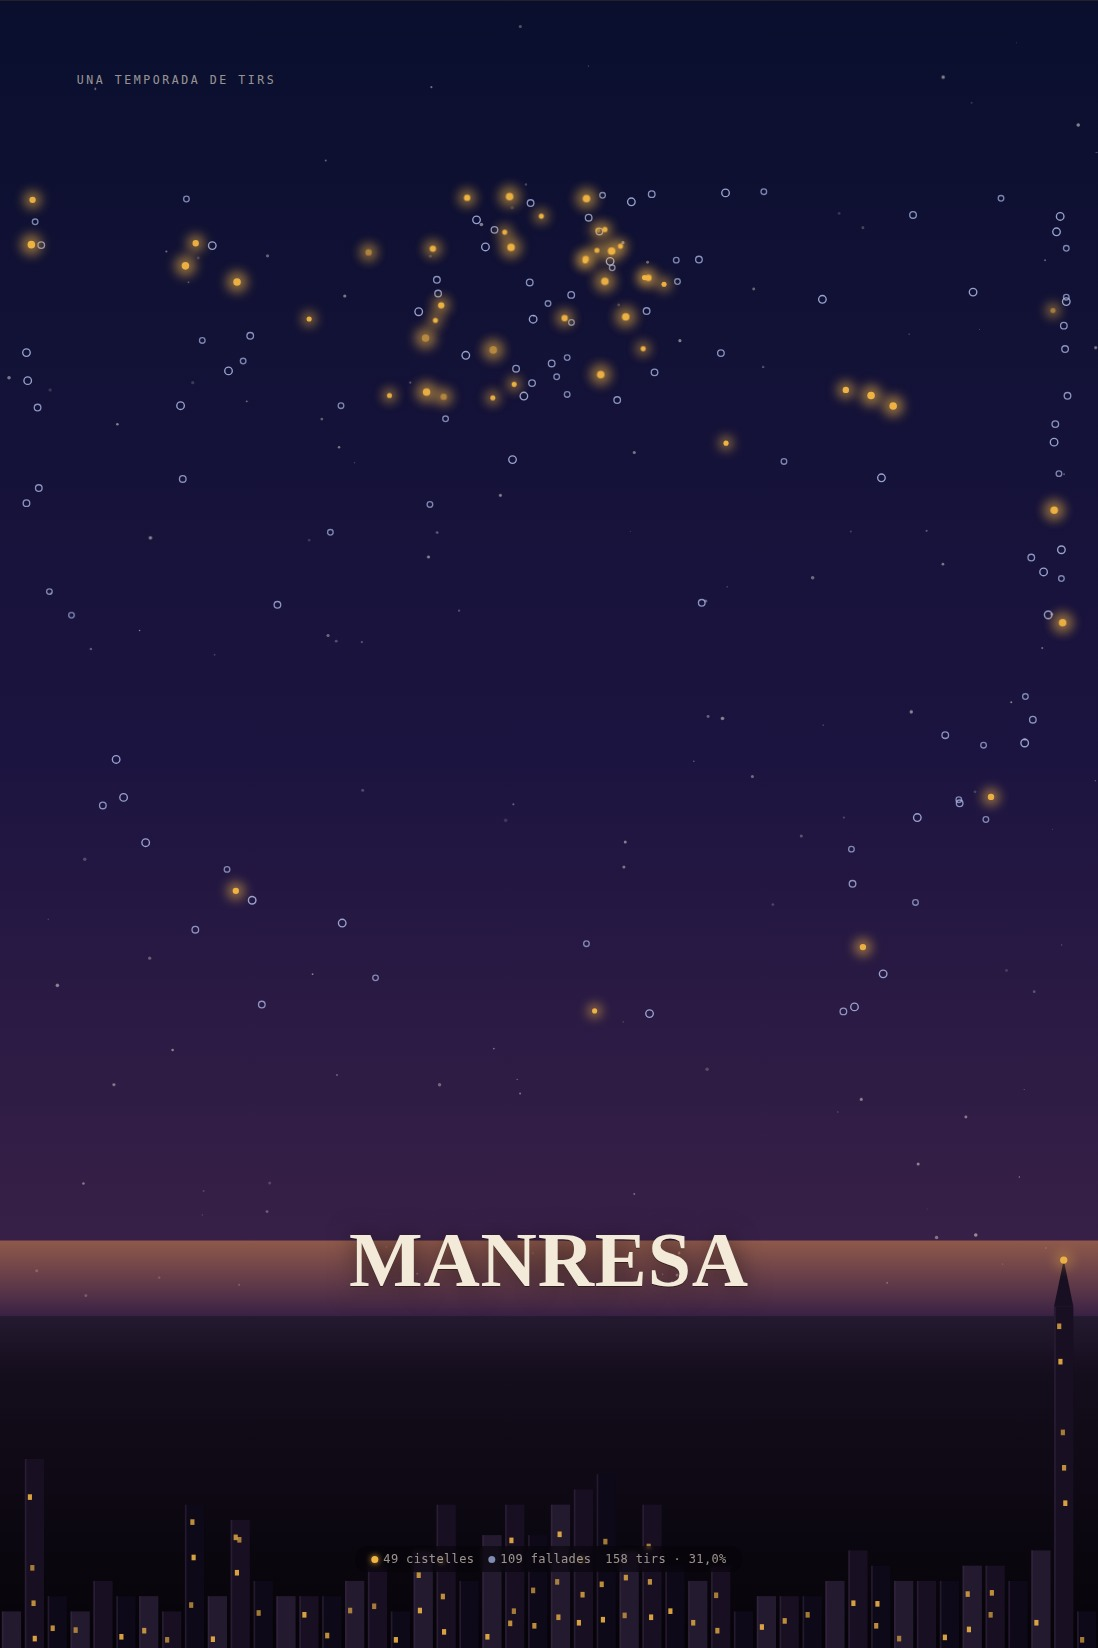
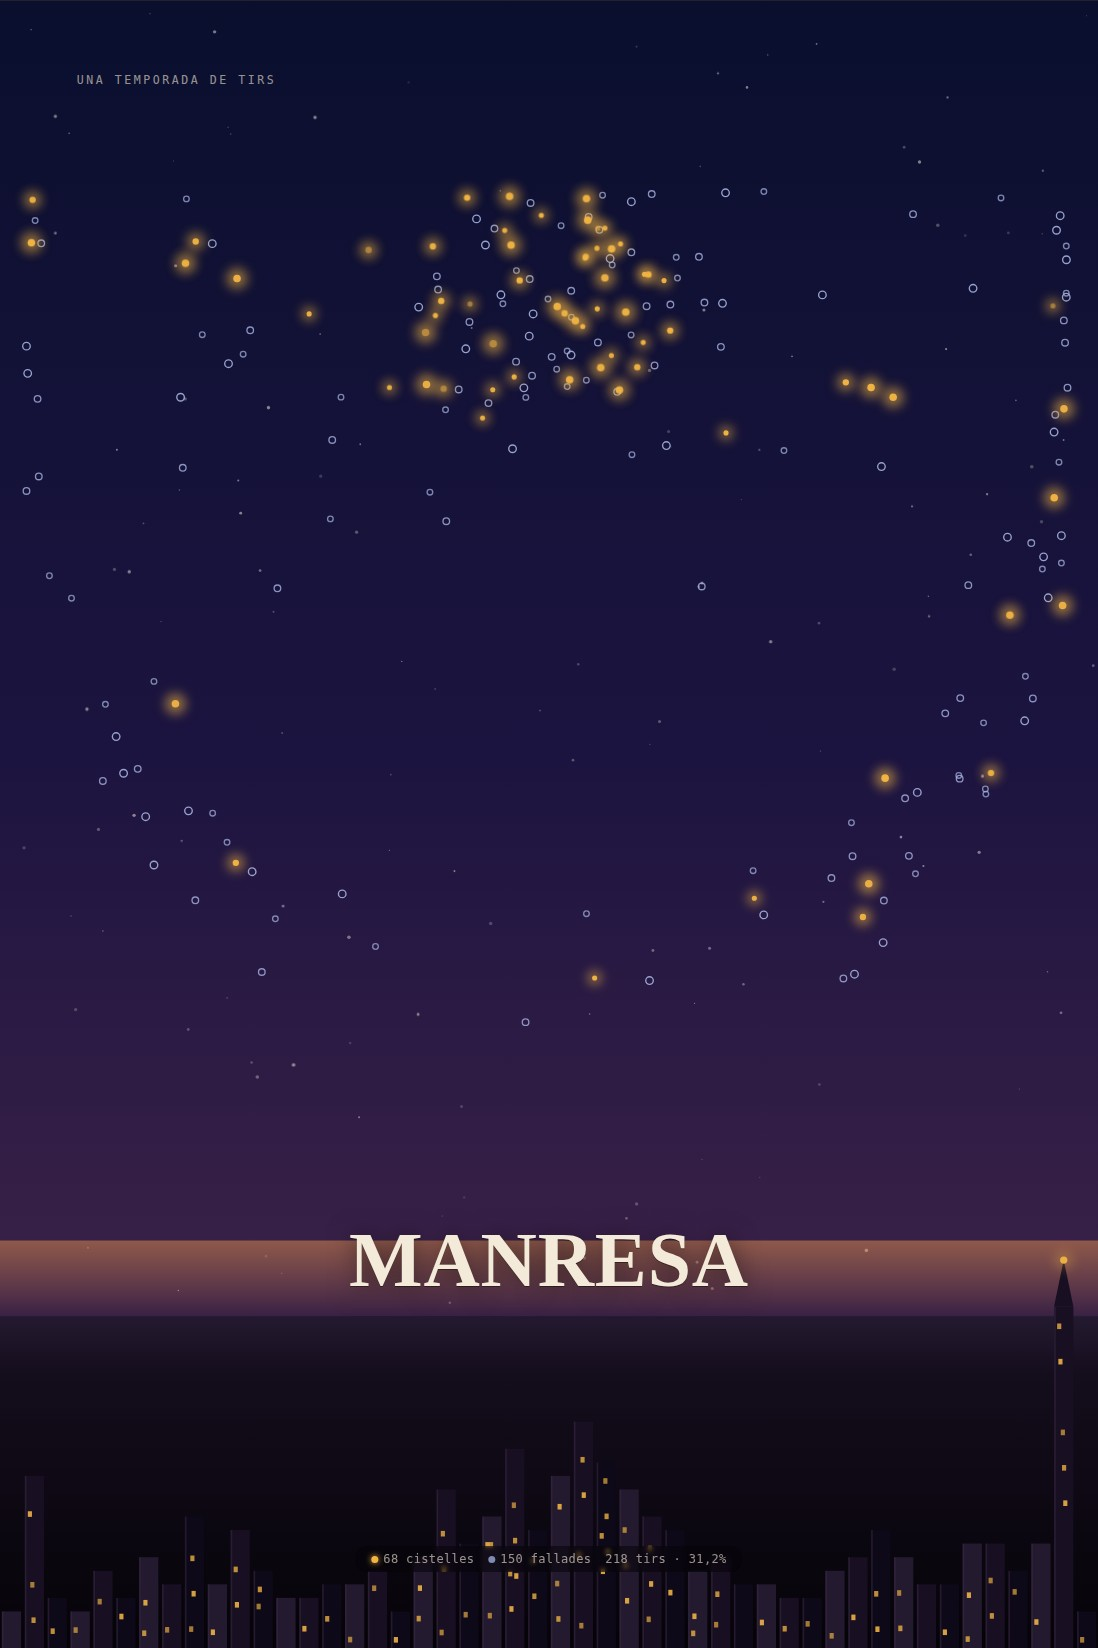
Actualitza el cel de tirs amb una jornada més (218 tirs, 68 cistelles)
Claude-Session: https://claude.ai/code/session_01TNDe9wqQxXzHpRRrxN6T8m

diff --git a/grafics.html b/grafics.html
@@ -90,7 +90,7 @@
      ningu. Les que hi hagi a la pestanya "Imatges" del full s'afegeixen
      despres, quan arribin. */
   const IMATGES_LOCALS = [
-    { titol: 'Un cel de tirs', url: 'imatges/cel-de-tirs.jpg?v=3' },
+    { titol: 'Un cel de tirs', url: 'imatges/cel-de-tirs.jpg?v=4' },
     { titol: 'La flor del feedback', url: 'imatges/flor-feedback.jpg?v=1' }
   ];
 
